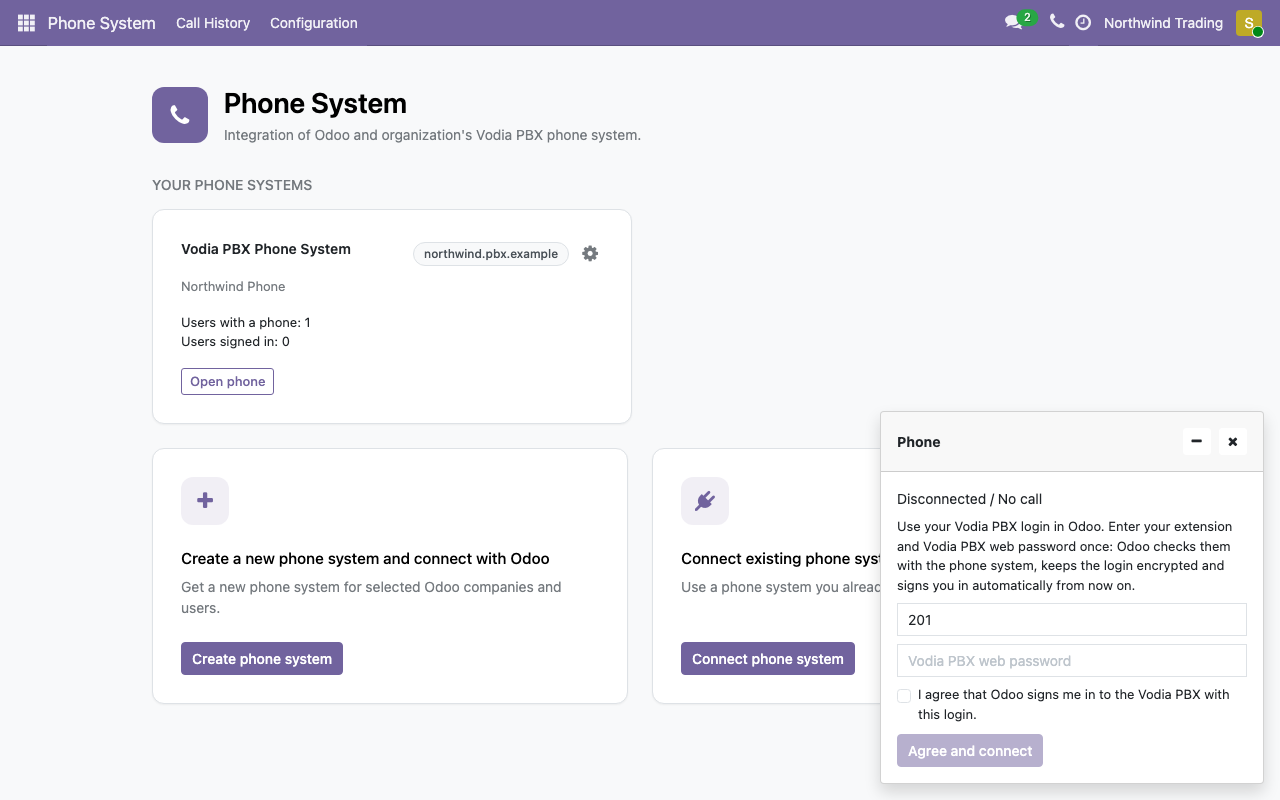
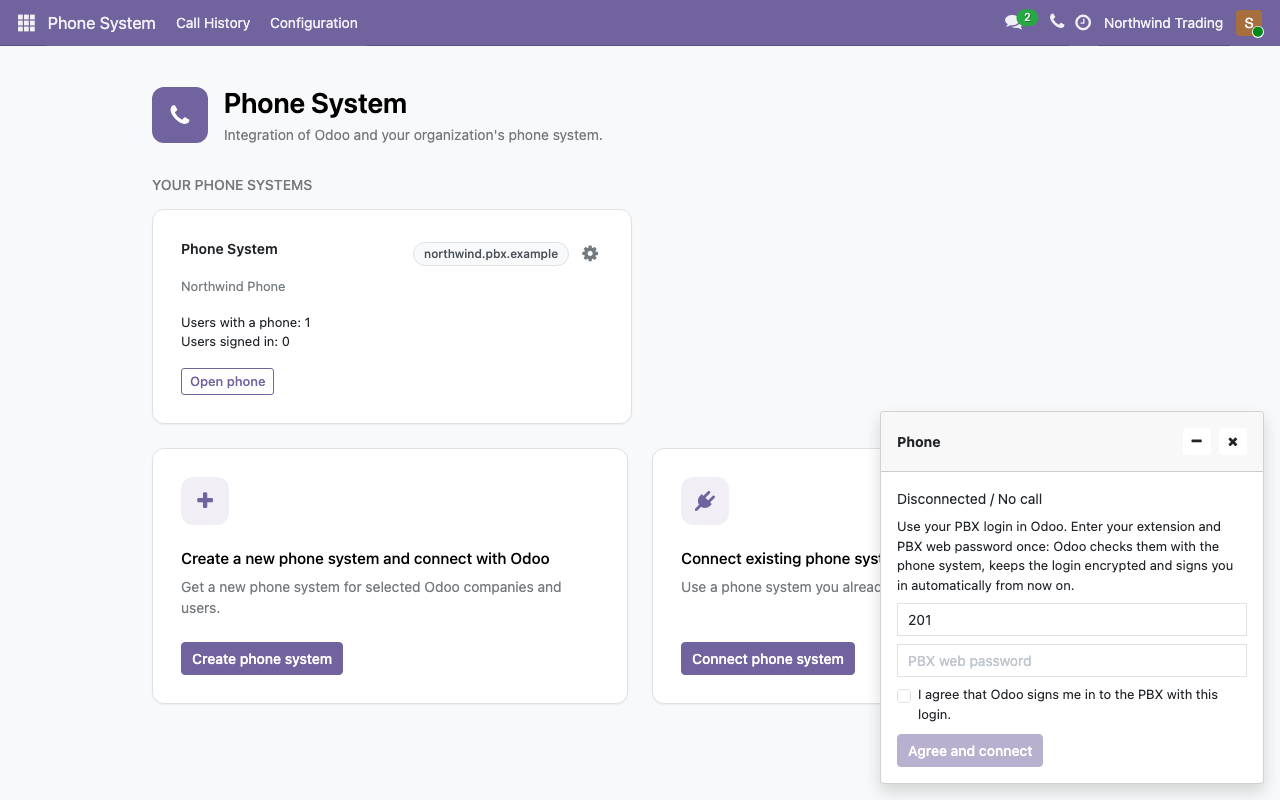
Phone System from main 7b03a6a

diff --git a/phone_system/static/description/index.html b/phone_system/static/description/index.html
@@ -45,7 +45,7 @@
     </div>
     <div class="oe_span6">
       <h3>Connect an existing phone system</h3>
-      <p>Already running a Vodia PBX? Connect it and give your Odoo users their extensions.</p>
+      <p>Already running a PBX? Connect it and give your Odoo users their extensions.</p>
     </div>
     <p class="oe_mt32 text-center">The app is free to install. A new phone system needs a paid subscription; plans and prices appear in the app before you pay.</p>
   </div>
@@ -61,6 +61,6 @@
       <li><strong>You need:</strong> HTTPS on your Odoo site, a current desktop browser and a microphone. External calls need a SIP trunk.</li>
     </ul>
     <h2 class="oe_slogan oe_mt32">Help and support</h2>
-    <p class="text-center">Guides and contact details: <a href="https://gcn-alliance.com/support/">gcn-alliance.com/support</a>. Powered by Vodia PBX.</p>
+    <p class="text-center">Guides and contact details: <a href="https://gcn-alliance.com/support/">gcn-alliance.com/support</a>.</p>
   </div>
 </section>

diff --git a/phone_system/static/src/pilot_service.js b/phone_system/static/src/pilot_service.js
@@ -400,7 +400,7 @@ export const pilotService = {
                 } catch (error) {
                     state.error = error.data?.name === "odoo.exceptions.UserError" && typeof error.data.message === "string"
                         ? error.data.message
-                        : _t("Your Vodia PBX login could not be confirmed. Try again.");
+                        : _t("Your PBX login could not be confirmed. Try again.");
                     return;
                 } finally {
                     state.consentBusy = false;

diff --git a/phone_system/models/pilot_configuration.py b/phone_system/models/pilot_configuration.py
@@ -216,7 +216,7 @@ class PilotMapping(models.Model):
 
     def action_clear_credential(self):
         if not self.env.user.has_group("base.group_system"):
-            raise AccessError(_("Only an administrator may clear a Vodia credential."))
+            raise AccessError(_("Only an administrator may clear a PBX credential."))
         self.write({"credential_ciphertext": False})
         return True
 
@@ -249,7 +249,7 @@ class PilotMapping(models.Model):
     def _password_digest(self):
         self.ensure_one()
         if not self.credential_ciphertext:
-            raise UserError(_("Ask an administrator to configure your individual Vodia web credential."))
+            raise UserError(_("Ask an administrator to configure your individual PBX web credential."))
         try:
             value = json.loads(self._credential_cipher().decrypt(
                 self.credential_ciphertext.encode("ascii")
@@ -262,7 +262,7 @@ class PilotMapping(models.Model):
             return digest
         except (InvalidToken, ValueError, KeyError, TypeError, UnicodeError):
             _logger.warning("Vodia stored individual credential validation failed.")
-            raise UserError(_("The individual Vodia credential is invalid; ask an administrator to replace it.")) from None
+            raise UserError(_("The individual PBX credential is invalid; ask an administrator to replace it.")) from None
 
     def _caller_mapping(self):
         user = self.env.user
@@ -358,11 +358,11 @@ class PilotMapping(models.Model):
         encrypted and scoped like any other individual credential."""
         mapping = self._caller_mapping()
         if consent is not True:
-            raise UserError(_("Agree to use your Vodia PBX login in Odoo first."))
+            raise UserError(_("Agree to use your PBX login in Odoo first."))
         if not isinstance(extension, str) or not re.fullmatch(r"[0-9]{2,6}", extension):
             raise UserError(_("Enter your extension number."))
         if not isinstance(password, str) or not 1 <= len(password) <= 128 or re.search(r"[\x00-\x1f]", password):
-            raise UserError(_("Enter your Vodia PBX web password."))
+            raise UserError(_("Enter your PBX web password."))
         if self.sudo().search_count([("connection_id.pbx_host", "=", mapping.connection_id.pbx_host),
                                      ("extension", "=", extension), ("user_id", "!=", mapping.user_id.id)]):
             raise UserError(_("Extension %s is already linked to another Odoo user.", extension))
@@ -410,7 +410,7 @@ class PilotMapping(models.Model):
                 raise ValueError("Invalid PBX password challenge.")
         except (requests.RequestException, ValueError):
             _logger.warning("Vodia password challenge delivery failed for an authorized mapping.")
-            raise UserError(_("Vodia login failed. Ask an administrator to check the PBX and your mapping.")) from None
+            raise UserError(_("PBX login failed. Ask an administrator to check the PBX and your mapping.")) from None
         proof = hashlib.sha256(
             (mapping.extension + ":" + digest + ":" + payload["challenge"]).encode("utf-8")
         ).hexdigest()

diff --git a/phone_system/models/pilot_connect_wizard.py b/phone_system/models/pilot_connect_wizard.py
@@ -11,11 +11,11 @@ _logger = logging.getLogger(__name__)
 
 
 class PilotConnectWizard(models.TransientModel):
-    """Connects an existing Vodia PBX tenant without changing it. The administrator only names the tenant and
+    """Connects an existing PBX tenant without changing it. The administrator only names the tenant and
     the users who get a phone; each user then links their own extension by signing in with its web password."""
 
     _name = "vodia.pilot.connect.wizard"
-    _description = "Connect an existing Vodia PBX"
+    _description = "Connect an existing PBX"
 
     name = fields.Char("Name", required=True, default=lambda self: self.env.company.name)
     pbx_host = fields.Char("PBX tenant address", required=True)
@@ -58,7 +58,7 @@ class PilotConnectWizard(models.TransientModel):
                 user.sudo().write({"group_ids": [(4, group.id)]})
         _logger.info("Vodia existing PBX connected for %s users.", len(self.user_ids))
         self.write({"pbx_host": host, "state": "done", "result": _(
-            "Phone system connected. %s users will be asked for their extension and Vodia PBX web password "
+            "Phone system connected. %s users will be asked for their extension and PBX web password "
             "the next time they open the phone.", len(self.user_ids))})
         return {"type": "ir.actions.act_window", "name": _("Connect existing phone system"), "res_model": self._name,
                 "res_id": self.id, "view_mode": "form", "views": [[False, "form"]], "target": "new"}

diff --git a/phone_system/models/pilot_number.py b/phone_system/models/pilot_number.py
@@ -16,7 +16,7 @@ class PilotNumber(models.Model):
     The PBX routes a call by the extension names (aliases) that match the called number, so Odoo adds the
     number's spellings to the extension's names and removes only those again; other names stay untouched."""
     _name = "vodia.pilot.number"
-    _description = "Vodia incoming phone number"
+    _description = "Incoming phone number"
     _rec_name = "number"
     _order = "number"
 

diff --git a/phone_system/models/credentials.py b/phone_system/models/credentials.py
@@ -30,4 +30,4 @@ def credential_cipher(env):
         return Fernet(installation_key(env).encode("ascii"))
     except (ValueError, UnicodeError):
         _logger.warning("Vodia credential encryption key is unavailable.")
-        raise UserError(_("The Vodia credential encryption key is missing or invalid.")) from None
+        raise UserError(_("The PBX credential encryption key is missing or invalid.")) from None

diff --git a/phone_system/models/pilot_trunk_wizard.py b/phone_system/models/pilot_trunk_wizard.py
@@ -16,7 +16,7 @@ TIMEOUT = (3, 10)
 
 
 class PilotTrunkClient:
-    """Minimal tenant-admin client for the Vodia REST API; the digest never leaves the server."""
+    """Minimal tenant-admin client for the PBX REST API; the digest never leaves the server."""
 
     def __init__(self, username, digest, origin=PBX_ORIGIN, tenant=PBX_TENANT, http=None):
         self.origin, self.tenant = origin, tenant

diff --git a/phone_system/__manifest__.py b/phone_system/__manifest__.py
@@ -3,7 +3,7 @@
     "summary": "Make and take calls inside Odoo with a browser phone and matched call history",
     "author": "GCN-ALLIANCE",
     "website": "https://gcn-alliance.com/support/",
-    "version": "19.0.0.30.0",
+    "version": "19.0.0.31.0",
     "category": "Productivity",
     "license": "LGPL-3",
     "depends": ["web", "phone_validation"],
